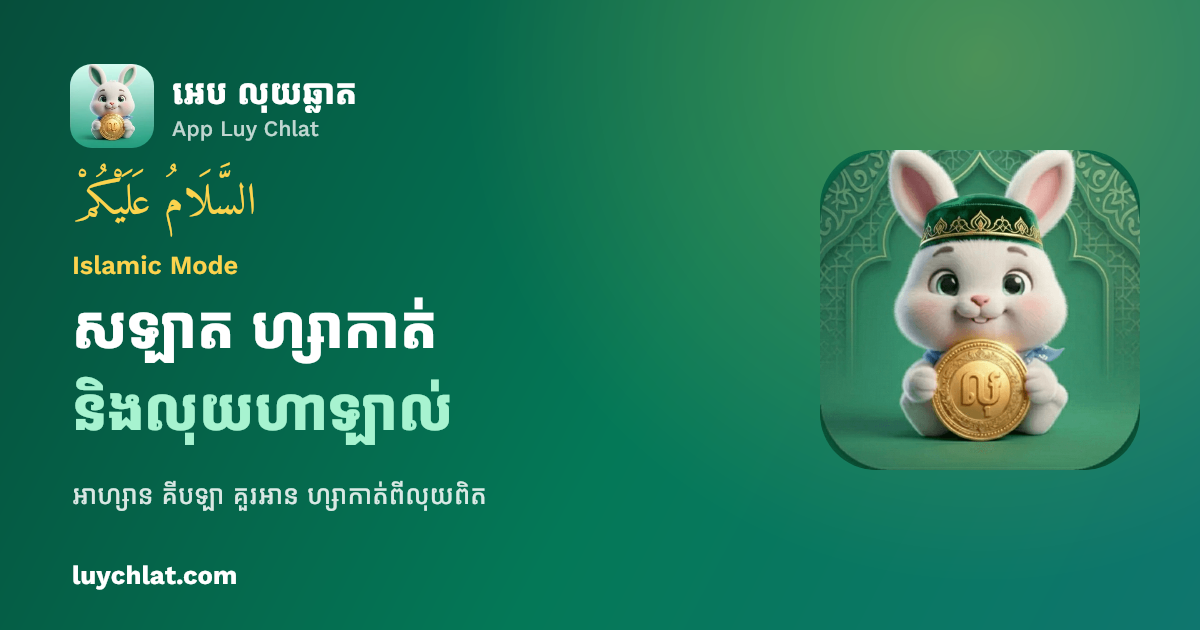
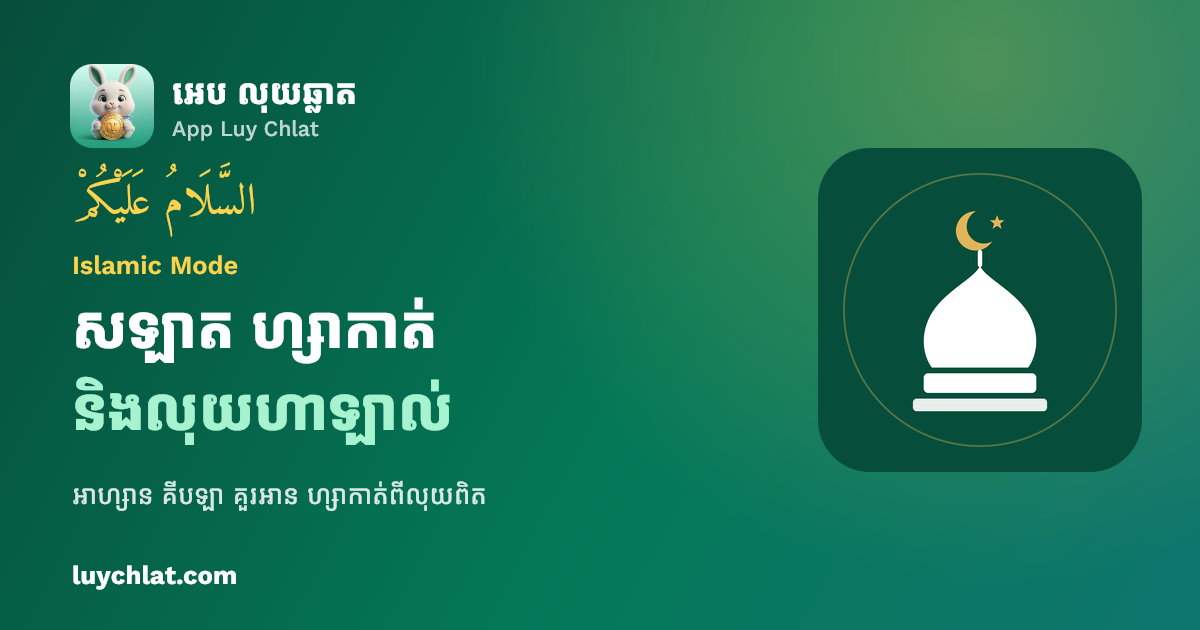
feat(brand): the Islamic mark is a mosque dome — white dome, gold crescent and star on the brand emerald (founder, 5/11/2026)
Our own drawing (scripts/generate-islamic-logo.mjs — the founder showed the style; no other app's mark is copied), one
SVG for every place the kopiah mascot was: the app while Islamic Mode is on (icon-islamic.png 512), the Islamic posters'
and reels' header, the Telegram channel size (logo-islamic.png 1024, circle-safe), the website's Islamic page and its
share image (og-islamic.png — the main brand mascot stays top left). Brand design system change log updated.

Khmer: រូបតំណាងឥស្លាមថ្មី៖ ដំបូលម៉ាស្ជិទពណ៌ស ព្រះចន្ទនិងផ្កាយមាស លើផ្ទៃបៃតង

Changed region(s): [[0.6783, 0.2111, 0.9558, 0.754]]

diff --git a/src/lib/islamic-brand.test.ts b/src/lib/islamic-brand.test.ts
@@ -5,10 +5,13 @@ import { describe, it } from "node:test"
 
 const read = (p: string) => readFileSync(join(process.cwd(), p), "utf8")
 
-describe("Islamic logo variant (founder, 18/10/2026)", () => {
-  it("the files exist, made by the generator from the founder's kopiah artwork", () => {
-    for (const f of ["public/icon-islamic.png", "public/logo-islamic.png", "public/rabbit-kopiah.png", "public/logo.png"]) assert.ok(existsSync(join(process.cwd(), f)), f)
-    assert.match(read("scripts/generate-islamic-logo.mjs"), /const SOURCE = "public\/rabbit-kopiah\.png"/)
+describe("Islamic logo variant (founder, 18/10/2026; the mosque dome since 5/11/2026)", () => {
+  it("the files exist, drawn by the generator: a white dome, gold crescent and star on the brand's emerald — our own artwork", () => {
+    for (const f of ["public/icon-islamic.png", "public/logo-islamic.png", "public/logo.png"]) assert.ok(existsSync(join(process.cwd(), f)), f)
+    const gen = read("scripts/generate-islamic-logo.mjs")
+    assert.match(gen, /const EMERALD = "#064e3b"/)
+    assert.match(gen, /const GOLD = "#e2b55a"/)
+    assert.match(gen, /the onion dome/)
   })
   it("the sizes: 1024 for the Telegram channel, 512 (and light) for the in-app icon", async () => {
     const sharp = (await import("sharp")).default

diff --git a/src/components/brand-mark.tsx b/src/components/brand-mark.tsx
@@ -5,8 +5,8 @@ import { cn } from "@/lib/utils"
 /**
  * The app's logo: the official mascot (public/logo.png, 256 px — founder, 11/10/2026). Sized and
  * rounded by `className` (size-*, rounded-*); decorative, the name is always written next to it.
- * `islamic`: the mascot in a white-and-gold kopiah (public/icon-islamic.png, scripts/generate-islamic-logo.mjs),
- * shown while Islamic Mode is on (founder, 18/10/2026).
+ * `islamic`: the Islamic mark — a white mosque dome, gold crescent and star on emerald (public/icon-islamic.png,
+ * scripts/generate-islamic-logo.mjs; founder, 5/11/2026 — it replaced the kopiah mascot of 18/10), shown while Islamic Mode is on.
  */
 export function BrandMark({ className, priority, islamic }: { className?: string; priority?: boolean; islamic?: boolean }) {
   return (

diff --git a/docs/BRAND_DESIGN_SYSTEM.md b/docs/BRAND_DESIGN_SYSTEM.md
@@ -314,3 +314,6 @@ an approver's tap.
   title and the cycle centred, one glass card per fuel — its name, its grade in a gold pill, the price in large Khmer
   digits and its change badge (green «▼ ចុះ», red «▲ ឡើង», neutral «មិនប្រែប្រួល»), no parentheses. Attached to the fuel
   announcement card at the founder's request («attach the generated poster … immediately»), who approves it there.
+- **5/11/2026:** the Islamic mark is a white mosque dome with a gold crescent and star on the brand emerald (our own
+  drawing, `scripts/generate-islamic-logo.mjs`) — it replaces the kopiah mascot in the app, the Islamic posters and
+  reels, the website and its share image (founder: «change the Islamic icon to this style»). The main brand keeps the mascot.
